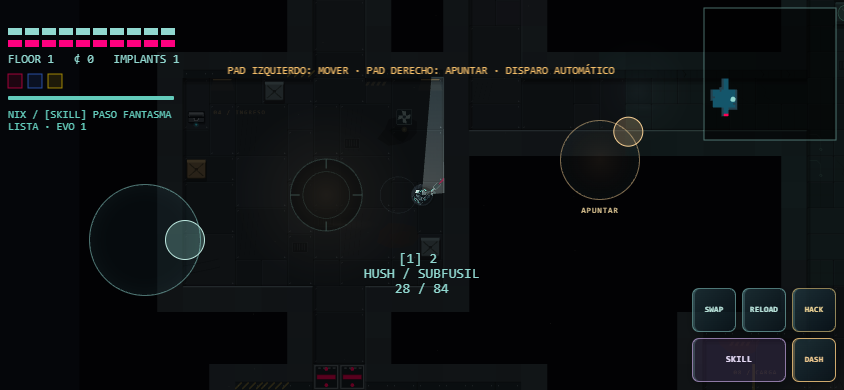
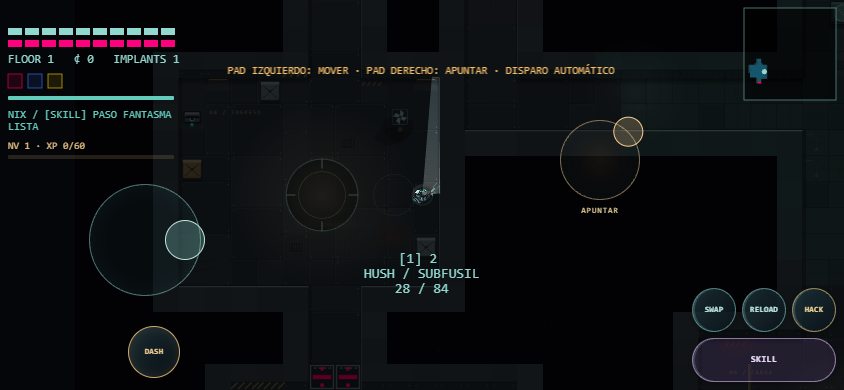
Improve mobile controls and weapon swapping
Repositions touch actions, resizes the mobile minimap, rounds mobile UI buttons, and adds automatic switching when weapons are fully depleted. Includes focused auto-swap tests and character upgrade design documentation.

diff --git a/src/systems/HudSystem.ts b/src/systems/HudSystem.ts
@@ -18,6 +18,7 @@ const MAGENTA = 0xff007f;
 const KEY_ORDER: readonly KeyColor[] = ['red', 'blue', 'gold'];
 
 const MINIMAP_SIZE = 132;
+const TOUCH_MINIMAP_SIZE = 92;
 const MINIMAP_MARGIN = 8;
 /** The minimap is redrawn at most this often (seconds), however fast tiles get explored. */
 const MINIMAP_REFRESH = 0.15;
@@ -56,6 +57,7 @@ export class HudSystem implements System {
   private miniVersion = -1;
   private miniFogVersion = -1;
   private miniTimer = 0;
+  private miniSize = MINIMAP_SIZE;
 
   constructor(renderer: RenderSystem, state: GameState, fog: FogSystem) {
     this.renderer = renderer;
@@ -91,7 +93,7 @@ export class HudSystem implements System {
   resize(width: number, height: number): void {
     this.width = width;
     this.height = height;
-    this.mini.position.set(width - MINIMAP_SIZE - MINIMAP_MARGIN, MINIMAP_MARGIN);
+    this.mini.position.set(width - this.miniSize - MINIMAP_MARGIN, MINIMAP_MARGIN);
     this.weaponText.position.set(width / 2, height - 14);
     this.promptText.position.set(width / 2, height - 100);
     this.toastText.position.set(width / 2, 64);
@@ -99,6 +101,12 @@ export class HudSystem implements System {
   }
 
   render(world: World, _alpha: number, frameDt: number): void {
+    const miniSize = this.state.touch ? TOUCH_MINIMAP_SIZE : MINIMAP_SIZE;
+    if (miniSize !== this.miniSize) {
+      this.miniSize = miniSize;
+      this.miniLevel = null; // Redraw immediately when changing input mode, even without a resize.
+      this.mini.position.set(this.width - miniSize - MINIMAP_MARGIN, MINIMAP_MARGIN);
+    }
     const toastSize = this.state.touch ? 11 : 14;
     if (this.toastText.style.fontSize !== toastSize) this.toastText.style.fontSize = toastSize;
     this.weaponText.y = this.height - (this.state.touch ? 94 : 14);
@@ -197,7 +205,7 @@ export class HudSystem implements System {
     const level = this.level;
     if (!level) return;
     const map = level.map;
-    const scale = MINIMAP_SIZE / Math.max(map.width, map.height);
+    const scale = this.miniSize / Math.max(map.width, map.height);
 
     const stale = level !== this.miniLevel || level.version !== this.miniVersion || this.fog.version !== this.miniFogVersion;
     if (stale && (this.miniTimer >= MINIMAP_REFRESH || level !== this.miniLevel)) {
@@ -233,14 +241,14 @@ export class HudSystem implements System {
         }
       }
 
-      this.mini.clear().rect(0, 0, MINIMAP_SIZE, MINIMAP_SIZE).fill({ color: 0x000000, alpha: 0.55 }).stroke({ width: 1, color: COLORS.cyan, alpha: 0.5 });
+      this.mini.clear().rect(0, 0, this.miniSize, this.miniSize).fill({ color: 0x000000, alpha: 0.55 }).stroke({ width: 1, color: COLORS.cyan, alpha: 0.5 });
       for (const [color, points] of groups) {
         for (let i = 0; i < points.length; i += 2) this.mini.rect(points[i], points[i + 1], scale + 0.4, scale + 0.4);
         this.mini.fill(color);
       }
     }
 
-    this.dot.clear().circle(this.width - MINIMAP_SIZE - MINIMAP_MARGIN + (px / TILE_SIZE) * scale, MINIMAP_MARGIN + (py / TILE_SIZE) * scale, 2.6).fill(COLORS.cyan);
+    this.dot.clear().circle(this.width - this.miniSize - MINIMAP_MARGIN + (px / TILE_SIZE) * scale, MINIMAP_MARGIN + (py / TILE_SIZE) * scale, 2.6).fill(COLORS.cyan);
   }
 }
 

diff --git a/src/combat/autoSwap.test.ts b/src/combat/autoSwap.test.ts
@@ -1,0 +1,50 @@
+import { test } from 'node:test';
+import assert from 'node:assert/strict';
+import { autoSwapEmptyWeapon } from './autoSwap.ts';
+import type { WeaponInventoryComponent } from '../ecs/components.ts';
+import type { WeaponDefinition } from '../types.ts';
+
+function inventory(magazine: number[], reserve: number[], activeSlot = 0): WeaponInventoryComponent {
+  return { slots: magazine.map((_, i) => ({ id: `WEAPON_${i}` }) as WeaponDefinition), magazine, reserve,
+    activeSlot, fireCooldown: 0, reloadTimer: 0 };
+}
+
+test('only switches after both the magazine and reserve are exhausted', () => {
+  for (const [mag, reserve] of [[1, 0], [0, 20], [0, Infinity]]) {
+    const inv = inventory([mag, 5], [reserve, 0]);
+    assert.equal(autoSwapEmptyWeapon(inv), false);
+    assert.equal(inv.activeSlot, 0);
+  }
+  const inv = inventory([0, 5], [0, 0]);
+  assert.equal(autoSwapEmptyWeapon(inv), true);
+  assert.equal(inv.activeSlot, 1);
+});
+
+test('skips empty weapons and prefers loaded ammunition over a reloadable weapon', () => {
+  const inv = inventory([0, 0, 0, 2], [0, 0, 15, 0]);
+  inv.reloadTimer = 1;
+  inv.fireCooldown = 1.4;
+  assert.equal(autoSwapEmptyWeapon(inv), true);
+  assert.equal(inv.activeSlot, 3);
+  assert.equal(inv.reloadTimer, 0);
+  assert.equal(inv.fireCooldown, 1.4);
+  assert.deepEqual(inv.magazine, [0, 0, 0, 2]);
+  assert.deepEqual(inv.reserve, [0, 0, 15, 0]);
+});
+
+test('wraps around the inventory and can fall back to the pistol with infinite reserve', () => {
+  const inv = inventory([0, 0, 0], [Infinity, 0, 0], 2);
+  assert.equal(autoSwapEmptyWeapon(inv), true);
+  assert.equal(inv.activeSlot, 0);
+  assert.equal(inv.fireCooldown, .2);
+  assert.equal(autoSwapEmptyWeapon(inv), false, 'a reloadable fallback must not trigger another switch');
+});
+
+test('does not cycle or reset timers when no usable alternative exists', () => {
+  for (const inv of [inventory([0], [0]), inventory([0, 0, 0], [0, 0, 0])]) {
+    inv.fireCooldown = .7;
+    const before = structuredClone(inv);
+    for (let i = 0; i < 5; i++) assert.equal(autoSwapEmptyWeapon(inv), false);
+    assert.deepEqual(inv, before);
+  }
+});

diff --git a/src/input/TouchControls.ts b/src/input/TouchControls.ts
@@ -77,6 +77,7 @@ export class TouchControls {
   readonly aim = new AimPad();
   private readonly root = div('touch-ui');
   private readonly actions = div('touch-actions');
+  private readonly movementActions = div('touch-movement-actions');
   private readonly aimBase = div('aim-pad');
   private readonly aimKnob = div('aim-pad-knob');
   private visible = false;
@@ -91,11 +92,13 @@ export class TouchControls {
     this.aimBase.setAttribute('aria-hidden', 'true');
     this.actions.setAttribute('role', 'group');
     this.actions.setAttribute('aria-label', 'Acciones del operativo');
-    this.root.append(this.move.base, this.aimBase, this.actions);
+    this.movementActions.setAttribute('role', 'group');
+    this.movementActions.setAttribute('aria-label', 'Acciones de movimiento');
+    this.root.append(this.move.base, this.aimBase, this.movementActions, this.actions);
     this.addButton('SWAP', 'swap', 'swap');
     this.addButton('RELOAD', 'reload', 'reload');
     this.addButton('HACK', 'interact', 'interact');
-    this.addButton('DASH', 'dash', 'dash');
+    this.addButton('DASH', 'dash', 'dash', this.movementActions);
     this.abilityButton = this.addButton('SKILL', 'ability', 'ability');
     this.abilityButton.setAttribute('aria-label', 'Activar habilidad');
 
@@ -167,7 +170,7 @@ export class TouchControls {
     this.root.querySelectorAll('.touch-btn.on').forEach((button) => button.classList.remove('on'));
   }
 
-  private addButton(label: string, className: string, edge: keyof ActionEdges): HTMLButtonElement {
+  private addButton(label: string, className: string, edge: keyof ActionEdges, group = this.actions): HTMLButtonElement {
     const button = document.createElement('button');
     button.type = 'button';
     button.className = `touch-btn ${className}`;
@@ -185,7 +188,7 @@ export class TouchControls {
     button.addEventListener('pointercancel', off);
     button.addEventListener('lostpointercapture', off);
     button.addEventListener('pointerleave', off);
-    this.actions.appendChild(button);
+    group.appendChild(button);
     return button;
   }
 }

diff --git a/src/input/touch.css b/src/input/touch.css
@@ -64,7 +64,13 @@
   background: #f4cd9238;
 }
 
-/* Five actions in a tight 3 × 2 group; every touch target remains at least 44 CSS px. */
+/* Dash stays by the left thumb; the other four actions leave more room to aim. */
+.touch-movement-actions {
+  position: absolute;
+  left: calc(clamp(88px, 16vw, 128px) + env(safe-area-inset-left, 0px));
+  bottom: calc(12px + env(safe-area-inset-bottom, 0px));
+  pointer-events: none;
+}
 .touch-actions {
   position: absolute;
   right: calc(8px + env(safe-area-inset-right, 0px));
@@ -72,7 +78,7 @@
   display: grid;
   grid-template-columns: repeat(3, var(--btn));
   grid-template-rows: repeat(2, var(--btn));
-  grid-template-areas: 'swap reload interact' 'ability ability dash';
+  grid-template-areas: 'swap reload interact' 'ability ability ability';
   gap: var(--gap);
   pointer-events: none;
 }
@@ -81,7 +87,7 @@
   height: var(--btn);
   padding: 0 3px;
   box-sizing: border-box;
-  border-radius: 7px;
+  border-radius: 999px;
   border: 1px solid #91d8d080;
   background: linear-gradient(135deg, #223a42b8, #08131bb8);
   color: #bce7de;
@@ -95,7 +101,7 @@
 .touch-btn.swap { grid-area: swap; }
 .touch-btn.reload { grid-area: reload; }
 .touch-btn.interact { grid-area: interact; border-color: #e5c57799; color: #f1d697; }
-.touch-btn.dash { grid-area: dash; color: #f4cd92; border-color: #d0aa6d; box-shadow: inset 2px 0 #d0aa6d55, 0 2px 8px #0004; }
+.touch-btn.dash { width: 52px; height: 52px; color: #f4cd92; border-color: #d0aa6d; box-shadow: inset 0 0 12px #d0aa6d22, 0 2px 8px #0004; }
 .touch-btn.ability { grid-area: ability; border-color: #c4a7e0aa; color: #e7dbf7; background: #6b4e8f38; white-space: pre-line; font-size: 9px; }
 .touch-btn.ability[aria-disabled='true'] { opacity: .6; }
 .touch-btn.ability.active, .touch-btn.ability.on { opacity: 1; background: #8564af99; }

diff --git a/src/combat/autoSwap.ts b/src/combat/autoSwap.ts
@@ -1,0 +1,26 @@
+import type { WeaponInventoryComponent } from '../ecs/components.ts';
+
+/** Exhausted means no loaded rounds AND no reserve. Prefer a ready weapon in slot order. */
+export function autoSwapEmptyWeapon(inv: WeaponInventoryComponent): boolean {
+  const current = inv.activeSlot;
+  if (inv.magazine[current] > 0 || inv.reserve[current] > 0) return false;
+  let reloadable = -1;
+  for (let offset = 1; offset < inv.slots.length; offset++) {
+    const slot = (current + offset) % inv.slots.length;
+    if (inv.magazine[slot] > 0) {
+      equip(slot);
+      return true;
+    }
+    if (reloadable < 0 && inv.reserve[slot] > 0) reloadable = slot;
+  }
+  if (reloadable < 0) return false;
+  equip(reloadable);
+  return true;
+
+  function equip(slot: number): void {
+    inv.activeSlot = slot;
+    inv.reloadTimer = 0;
+    // Keep the last shot's recovery, especially for slow rifles and shotguns.
+    inv.fireCooldown = Math.max(inv.fireCooldown, .2);
+  }
+}

diff --git a/src/systems/WeaponSystem.ts b/src/systems/WeaponSystem.ts
@@ -2,6 +2,7 @@ import type { SoundManager } from '../audio/SoundManager';
 import { abilityModifiers, endAbility } from '../characters/abilities';
 import { weaponMuzzle } from '../characters/weaponPose';
 import { hasMobileTarget, mobileAttackCone } from '../combat/mobileAim';
+import { autoSwapEmptyWeapon } from '../combat/autoSwap';
 import { COLORS, MUZZLE_OFFSET, NOISE_PROFILE_MULT } from '../config';
 import type { Team, TransformComponent, WeaponInventoryComponent } from '../ecs/components';
 import type { System } from '../ecs/System';
@@ -46,6 +47,8 @@ export class WeaponSystem implements System {
         inv.fireCooldown = 0.2;
         return;
       }
+
+      if (world.has(entity, 'playerControlled') && autoSwapEmptyWeapon(inv)) return;
 
       if (inv.reloadTimer > 0) {
         inv.reloadTimer -= dt;

diff --git a/src/ui/progression.css b/src/ui/progression.css
@@ -65,3 +65,9 @@
   .operative-select .deploy-action { margin-left: auto; }
 }
 @media (max-width: 599px) { .evolution-choices, .cosmetic-layout { grid-template-columns: 1fr; } .evolution-choice { min-height: 200px; } .cosmetic-stage { min-height: 400px; } .cosmetic-panel { height: auto; } }
+
+@media (pointer: coarse) {
+  .ui button { border-radius: 14px; }
+  .ui .btn { clip-path: none; }
+  .pause-btn { border-radius: 50%; }
+}

diff --git a/docs/propuestas-mejoras-personaje.md b/docs/propuestas-mejoras-personaje.md
@@ -1,0 +1,39 @@
+# Propuesta de mejoras de personaje
+
+Estas mejoras son propuestas de diseño; todavía no forman parte del juego. Las cifras son un punto de partida para probar el balance.
+
+## Qué cambiar respecto al catálogo actual
+
+Cada operativo tiene hoy dos evoluciones exclusivas. Después de obtenerlas, las elecciones se concentran en mejoras genéricas acumulables. Ampliaría las exclusivas y priorizaría efectos que cambien decisiones de combate: cuándo disparar, moverse, absorber daño o activar la habilidad.
+
+Se mantienen los ascensos por experiencia y las tres opciones por elección. Mientras queden opciones exclusivas, siempre aparece una; una segunda opción puede favorecer una combinación ya iniciada y la tercera ofrecer una alternativa defensiva o de manejo de armas. Las mejoras no elegidas siguen disponibles en ascensos posteriores. Ninguna exige haber alcanzado un piso concreto.
+
+## Primera ampliación: doce evoluciones
+
+| Operativo | Mejora propuesta | Efecto y decisión que introduce |
+| --- | --- | --- |
+| Nix | Cacería espectral | Una eliminación durante Paso Fantasma extiende su duración 1 s, con un máximo de 3 s extra por activación. Premia encadenar flancos sin permitir una habilidad infinita. |
+| Nix | Emboscada | El primer impacto de cada activación de Paso Fantasma causa un 60% más de daño. Funciona con Disparo espectral, pero se consume una sola vez por activación. Permite elegir entre ráfaga inicial y sigilo prolongado. |
+| Brasa | Presión acumulada | Al terminar o romperse la sobrecarga, libera el 50% del daño absorbido, hasta 80 de daño, en una onda de corto alcance bloqueada por paredes. Invita a aguantar y acercarse antes de detonar. |
+| Brasa | Munición de asedio | Acertar al menos tres perdigones de un disparo al mismo enemigo lo ralentiza un 30% durante 1.5 s. Reaplicar renueva el tiempo sin acumular intensidad. Favorece el combate cercano con escopeta. |
+| Vector | Punto débil | Mantener un enemigo visible en el centro del apuntado durante 0.6 s lo marca durante 4 s. El siguiente impacto consume la marca y causa un 50% más de daño. El tiempo de fijación exige línea de visión continua. |
+| Vector | Cadena de información | Eliminar un enemigo marcado por Punto débil reduce 2 s la recarga del barrido. Solo aparece después de obtener Punto débil y abre una ruta de precisión y ejecuciones. |
+| Sutura | Reparación excedente | La curación de los drones que exceda la vida máxima se convierte en escudo temporal, hasta 25 puntos por activación y con duración de 4 s tras finalizar. Permite usar la habilidad antes de entrar al combate. |
+| Sutura | Protocolo de emergencia | Recibir daño que deje la vida por debajo del 30% libera un dron que cura 20 de vida durante 2 s. Una activación por encuentro, recuperable tras 12 s sin recibir daño; no revive ni evita un golpe letal. Da margen para retirarse. |
+| Volt | Cortocircuito en cadena | Eliminar un enemigo interrumpido por el EMP propaga una interrupción de 0.75 s al enemigo visible más cercano a 140 px. Máximo tres saltos por activación; ningún enemigo se repite ni se atraviesan paredes. Convierte el control en una secuencia de objetivos. |
+| Volt | Impulso conductor | Usar Dash durante el EMP deja durante 2 s una estela que ralentiza un 35% a quienes la cruzan. No extiende la interrupción original. Permite cerrar un pasillo o asegurar la retirada. |
+| Morsa | Fuego de supresión | Durante Anclaje, tres impactos sobre un enemigo reducen su velocidad y cadencia un 25% durante 2 s. El efecto no acumula intensidad. Premia sostener el fuego sobre la amenaza principal. |
+| Morsa | Última línea | Al comenzar una recarga durante Anclaje, despliega una placa frontal que bloquea hasta 35 de daño durante 1.5 s. Una vez por activación; los flancos quedan expuestos. Vuelve importante la orientación durante su recarga larga. |
+
+## Combinaciones que vale la pena probar
+
+- **Nix:** Disparo espectral + Cacería espectral para una ruta de movilidad agresiva; Emboscada para priorizar un objetivo y salir.
+- **Brasa:** Placas superpuestas + Presión acumulada para convertir resistencia en una explosión preparada.
+- **Vector:** Punto débil + Cadena de información para marcar, ejecutar y recuperar el barrido.
+- **Sutura:** Drones de barrera + Reparación excedente para preparar una entrada protegida sin desperdiciar curación.
+- **Volt:** Resonancia + Cortocircuito en cadena para controlar grupos, con límites explícitos contra interrupciones permanentes.
+- **Morsa:** Cinta de emergencia + Última línea ofrecen momentos distintos: entrar con el cargador lleno o reservar Anclaje para cubrir una recarga posterior.
+
+## Presentación de cada elección
+
+Cada tarjeta debería mostrar el cambio concreto, una etiqueta de función (emboscada, control, defensa, precisión) y las mejoras obtenidas con las que combina. Las evoluciones con requisito se ofrecen únicamente cuando ese requisito está equipado. Las mejoras de estadísticas compartidas siguen como respaldo; el objetivo es que las exclusivas definan la identidad de la incursión.
